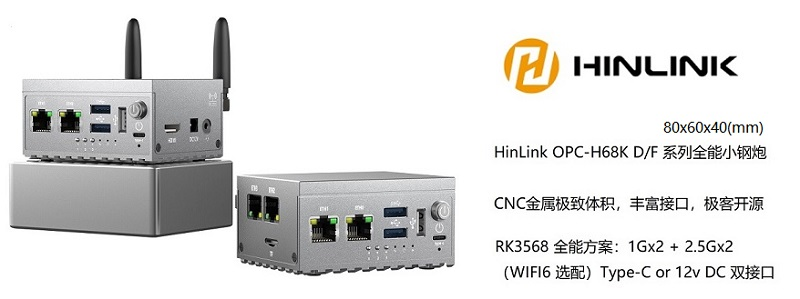
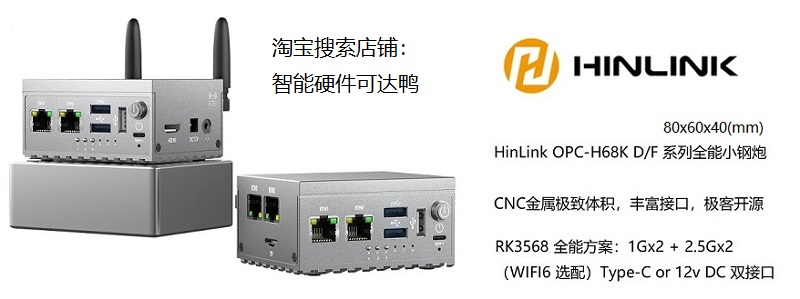
Update README.md

Changed region(s): [[0.3438, 0.2408, 0.5312, 0.3311], [0.3438, 0.1204, 0.5, 0.2107]]

diff --git a/README.md b/README.md
@@ -9,7 +9,7 @@ Op固件技术研究群 ,号码 891659613 ，加群链接：[点击加入](https
 2. TG 讨论群： OP 编译官方大群 ，加群链接：[点击加入](https://t.me/JhKgAA6Hx1 "OP 编译官方大群")
 3. Rockchip RK3568 预编译固件发布 Release 下载更新地址 (包括 H68K )：<https://github.com/coolsnowwolf/lede/releases/tag/20220716>
 
-<img src="https://github.com/coolsnowwolf/lede/blob/master/doc/h68k.jpg?raw=true" width=600  />
+<a href ="https://item.taobao.com/item.htm?spm=a230r.1.14.26.4bb55247bX9SiV&id=692981063139&ns=1&abbucket=15#detail"><img src="https://github.com/coolsnowwolf/lede/blob/master/doc/h68k.jpg?raw=true" width=600  /></a>
 
 ## 注意
 
